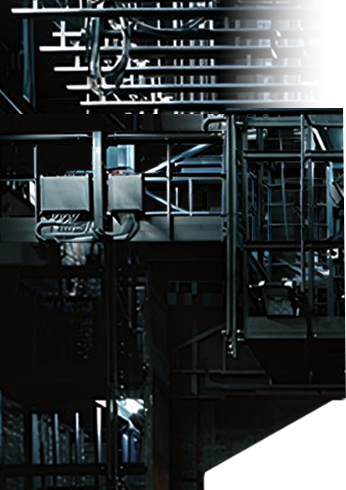
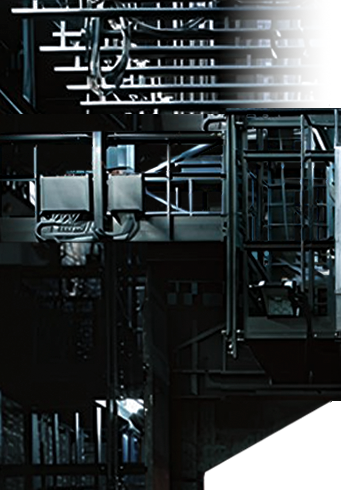
commit

diff --git a/client/homepage-responsiveness/hp-responsiveness.css b/client/homepage-responsiveness/hp-responsiveness.css
@@ -172,8 +172,14 @@ img {
 /* LATER WEH HALEN ↑↑↑↑↑↑↑↑↑↑↑↑↑↑↑↑↑ */
 /* -=-=-=-=-=-=-=-=-=-=-=-=-=-=-=-=- */
 
+
+
+:root {
+    --value: calc(var(--unitless-value) * 1%);
+}
+
 body {
-    overflow-y: hidden;
+    overflow: hidden;
 }
 
 .frame {
@@ -181,9 +187,17 @@ body {
     height: 100dvh;
     width: 100vw;
     background-color: black;
+
+    perspective: 40em;
+    perspective-origin: var(--value) center;
+    transform-style: preserve-3d;
 }
 
-.frame > * {
+.frame * {
+    transform-style: preserve-3d;
+}
+
+.frame>* {
     position: absolute;
 }
 
@@ -239,20 +253,19 @@ body {
 
 .frame .repeating-cage {
     top: 80px;
-    left: 50%;
-    translate: -50%;
+    left: 0;
     z-index: 5;
     height: 300px;
     width: 100%;
     background-image: url(/public/images/images-responsiveness/repeating-cage.png);
     background-repeat: repeat-x;
+    background-position: -20% 0;
     background-size: 1150px;
 }
 
 .frame .repeating-roof {
     top: 0;
-    left: 50%;
-    translate: -50%;
+    left: 0;
     z-index: 1;
     background-image: url(/public/images/images-responsiveness/repeating-roof.png);
     background-repeat: repeat;
@@ -271,15 +284,15 @@ body {
     height: 80px;
 }
 
-.frame .repeating-floor .prop-container {
+.frame .prop-container {
     position: absolute;
-    top: 70px;
-    left: 50%;
-    translate: -50% -100%;
+    bottom: 10px;
+    right: 22%;
     height: 400px;
+    z-index: 100;
 }
 
-.frame .repeating-floor h2 {
+.frame .prop-container h2 {
     position: absolute;
     top: 100px;
     left: -50px;
@@ -295,14 +308,14 @@ body {
     filter: drop-shadow(0 4px 10px #000);
 }
 
-.frame .repeating-floor .prop-container:hover h2 {
+.frame .prop-container:hover h2 {
     top: 20px;
     opacity: 1;
     scale: 1;
-    left: -160px;
+    left: -180px;
 }
 
-.frame .repeating-floor .prop-container .props {
+.frame .prop-container .props {
     position: absolute;
     top: 50%;
     left: 50%;
@@ -310,15 +323,23 @@ body {
     height: 400px;
 }
 
-.frame .repeating-floor .prop-container .props:hover {
+.frame .prop-container .props:hover {
     filter: url("#border-text");
 }
 
-.frame .repeating-floor .prop-container .prop-shadows {
+.frame .prop-container .prop-shadows {
     position: absolute;
     top: 92%;
     translate: -32.5% -50%;
     height: 160px;
+}
+
+.layer-1 {
+    translate: 0 0 20px;
+}
+
+.layer-2 {
+    translate: 0 0 10px;
 }
 
 
@@ -334,4 +355,12 @@ body {
     position: absolute;
     white-space: nowrap;
     width: 1px;
+}
+
+
+input {
+    position: absolute;
+    bottom: 50%;
+    left: 50%;
+    translate: -50% -50%;
   }

diff --git a/client/homepage-responsiveness/hp-responsiveness.html b/client/homepage-responsiveness/hp-responsiveness.html
@@ -13,25 +13,26 @@
 
 
     <div class="frame">
-        <img class="bottom-left" src="/public/images/images-responsiveness/frame-bottom-left.png">
-        <img class="top-left" src="/public/images/images-responsiveness/frame-top-left.png">
-        <div class="repeating-wall-left"></div>
+        <img class="bottom-left layer-2" src="/public/images/images-responsiveness/frame-bottom-left.png">
+        <img class="top-left layer-2" src="/public/images/images-responsiveness/frame-top-left.png">
+        <div class="repeating-wall-left layer-2"></div>
 
-        <div class="repeating-cage"></div>
-        <div class="repeating-floor">
-            <div class="prop-container">
-                <img class="prop-shadows" src="/public/images/images-responsiveness/prop-shadows.png">
-                <img class="props" src="/public/images/images-responsiveness/props.png">
-                <h2>Bekijk <span class="break"></span>Projecten</h2>
-            </div>
+        <div class="repeating-cage layer-2"></div>
+        <div class="repeating-floor layer-2"></div>
+        <div class="prop-container layer-1">
+            <img class="prop-shadows" src="/public/images/images-responsiveness/prop-shadows.png">
+            <img class="props" src="/public/images/images-responsiveness/props.png">
+            <h2>Bekijk <span class="break"></span>Projecten</h2>
         </div>
-        <div class="repeating-roof">
+        <div class="repeating-roof layer-2">
         </div>
 
-        <div class="repeating-wall-right"></div>
-        <img class="bottom-right" src="/public/images/images-responsiveness/frame-bottom-right.png">
-        <img class="top-right" src="/public/images/images-responsiveness/frame-top-right.png">
+        <div class="repeating-wall-right layer-2"></div>
+        <img class="bottom-right layer-2" src="/public/images/images-responsiveness/frame-bottom-right.png">
+        <img class="top-right layer-2" src="/public/images/images-responsiveness/frame-top-right.png">
     </div>
+
+    <input id="camera" type="range" min="0" max="100" value="50" step=".001" name="unitless-value">
 
     <script src="hp-responsiveness.js"></script>
 

diff --git a/client/homepage-responsiveness/hp-responsiveness.js b/client/homepage-responsiveness/hp-responsiveness.js
@@ -1,0 +1,16 @@
+const ranges = document.querySelectorAll('[type="range"]');
+
+const updateRange = (range) => {
+    const rangeName = range.name;
+    const rangeValue = range.value;
+
+    document.documentElement.style.setProperty("--" + rangeName, rangeValue);
+};
+
+ranges.forEach((range) => {
+    updateRange(range);
+
+    range.oninput = () => {
+        updateRange(range);
+    };
+});
